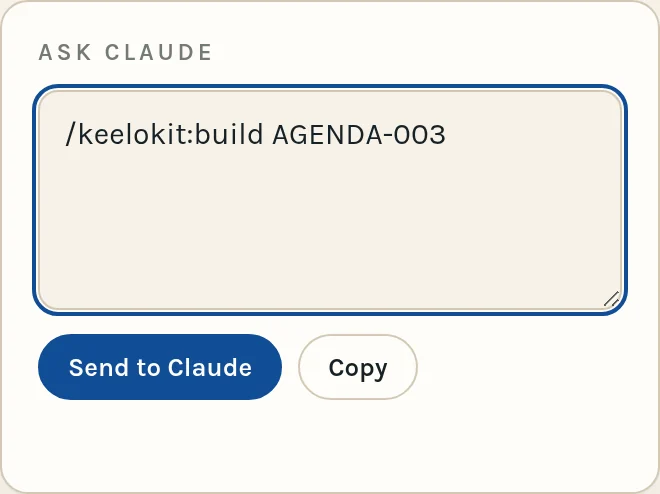
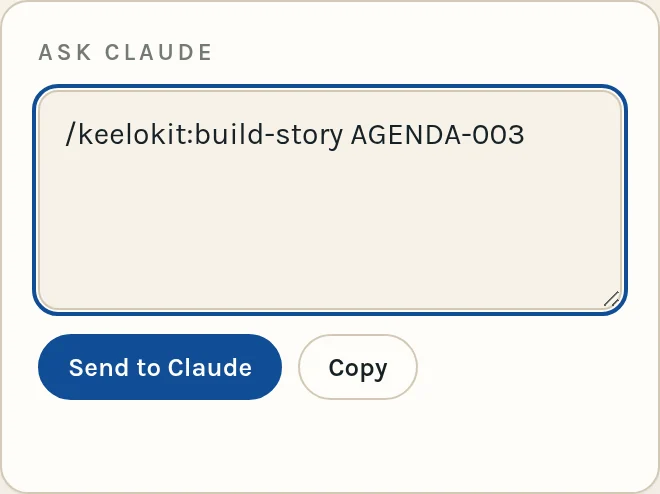
Keelokit's commands grouped by area (project-, plan-, build-, check-, ship-)

Changed region(s): [[0.3939, 0.2429, 0.7879, 0.3036]]

diff --git a/src/i18n.ts b/src/i18n.ts
@@ -46,7 +46,7 @@ const en = {
     depth: '−2 m',
     title: 'From an idea to a monorepo that runs',
     lead:
-      '/keelokit:kickstart walks you through five gates and shows each one on a dashboard. Stage by stage, it stops wherever your decision matters; in automatic mode, only where a person is required. Everything gets written down as it goes.',
+      '/keelokit:project-new walks you through five gates and shows each one on a dashboard. Stage by stage, it stops wherever your decision matters; in automatic mode, only where a person is required. Everything gets written down as it goes.',
     steps: [
       ['Intake', 'An interview that reads what you already have first, then asks only what’s missing. What nobody knows yet stays written as an open question, with an owner.'],
       ['Product', 'A short PRD: the problem, who it’s for, what’s in and, explicitly, what’s out.'],
@@ -75,11 +75,11 @@ const en = {
     title: 'Where to start',
     head: ['What you have', 'Start with', 'What you get'],
     rows: [
-      ['An idea, nothing else', '/keelokit:kickstart', 'A monorepo that runs, with CI, context and a first backlog'],
-      ['A repo you already have', '/keelokit:adopt', 'The rules mapped to its checks, and the rest as dated debt'],
-      ['A story to build', '/keelokit:build', 'Tests written first, code that passes them, a verified result'],
-      ['Bugs that keep slipping through', '/keelokit:bugbash', 'Root-cause fixes, and a check that covers the whole class of every bug that escaped'],
-      ['A project to follow', '/keelokit:dashboard', 'One page with every stage, what waits for you and the next step, with buttons that ask Claude for it', 'new'],
+      ['An idea, nothing else', '/keelokit:project-new', 'A monorepo that runs, with CI, context and a first backlog'],
+      ['A repo you already have', '/keelokit:project-adopt', 'The rules mapped to its checks, and the rest as dated debt'],
+      ['A story to build', '/keelokit:build-story', 'Tests written first, code that passes them, a verified result'],
+      ['Bugs that keep slipping through', '/keelokit:check-bugbash', 'Root-cause fixes, and a check that covers the whole class of every bug that escaped'],
+      ['A project to follow', '/keelokit:project-dashboard', 'One page with every stage, what waits for you and the next step, with buttons that ask Claude for it', 'new'],
     ],
   },
   verifyTitle: 'The skeleton, checked end to end',
@@ -97,15 +97,15 @@ const en = {
     badge: 'New',
     lead: 'Ten skills. You can run them one by one, let /keelokit tell you what comes next, or follow it all on the dashboard.',
     items: [
-      ['/keelokit:kickstart', 'From an idea to a working skeleton: intake, PRD, stack, generated monorepo with CI, first backlog.'],
-      ['/keelokit:adopt', 'Adds only the harness to a repo you already have. What it doesn’t meet yet becomes a dated exception.'],
-      ['/keelokit:intake', 'Reads briefs, notes or a repo, then asks only what’s missing. Never fills a gap with a guess.'],
-      ['/keelokit:backlog', 'Epics and stories with acceptance scenarios and the invariants they keep, in waves so parallel work never collides.'],
-      ['/keelokit:build', 'One story at a time: the verifier writes the tests first, a builder makes them pass, a reviewer reads the diff and a breaker tries to break it.'],
-      ['/keelokit:bugbash', 'A bug hunt across data, API, integrity, UX, i18n, accessibility and security. Every escaped bug adds a check for its whole class.'],
-      ['/keelokit:dashboard', 'One page, rebuilt from the repo: every stage and its status, what to review with the documents inline, stories by development wave and by epic, bug bashes, the decisions taken, and buttons that ask Claude for the next step.', 'new'],
-      ['/keelokit:doctor', 'Is every rule still backed by a check that works? Adds rules, registers exceptions.'],
-      ['/keelokit:upgrade', 'Brings a project to a newer template without touching its product code.'],
+      ['/keelokit:project-new', 'From an idea to a working skeleton: intake, PRD, stack, generated monorepo with CI, first backlog.'],
+      ['/keelokit:project-adopt', 'Adds only the harness to a repo you already have. What it doesn’t meet yet becomes a dated exception.'],
+      ['/keelokit:plan-intake', 'Reads briefs, notes or a repo, then asks only what’s missing. Never fills a gap with a guess.'],
+      ['/keelokit:plan-backlog', 'Epics and stories with acceptance scenarios and the invariants they keep, in waves so parallel work never collides.'],
+      ['/keelokit:build-story', 'One story at a time: the verifier writes the tests first, a builder makes them pass, a reviewer reads the diff and a breaker tries to break it.'],
+      ['/keelokit:check-bugbash', 'A bug hunt across data, API, integrity, UX, i18n, accessibility and security. Every escaped bug adds a check for its whole class.'],
+      ['/keelokit:project-dashboard', 'One page, rebuilt from the repo: every stage and its status, what to review with the documents inline, stories by development wave and by epic, bug bashes, the decisions taken, and buttons that ask Claude for the next step.', 'new'],
+      ['/keelokit:check-health', 'Is every rule still backed by a check that works? Adds rules, registers exceptions.'],
+      ['/keelokit:ship-upgrade', 'Brings a project to a newer template without touching its product code.'],
       ['/keelokit', 'Where the project stands, what comes next, what’s waiting for your decision.'],
     ],
   },
@@ -113,7 +113,7 @@ const en = {
     depth: '−11 m',
     badge: 'New in 0.6',
     title: 'The whole project on one page',
-    lead: '/keelokit:dashboard builds a page from your repo, in your language: where the project is, what waits for you, and the next step. It opens at the start of kickstart, refreshes at every stage, and tells you where a paused run stopped.',
+    lead: '/keelokit:project-dashboard builds a page from your repo, in your language: where the project is, what waits for you, and the next step. It opens when /keelokit:project-new starts, refreshes at every stage, and tells you where a paused run stopped.',
     caption: 'Bookline, a sample project, halfway through its build',
     open: 'Open full size',
     darkCaption: 'Light or dark, one click',
@@ -165,8 +165,8 @@ const en = {
     depth: '−32 m',
     title: 'Good to know',
     items: [
-      ['It’s opinionated', 'It’s built around my preferences and my stack. It won’t fit every project or every team. If your stack is different, /keelokit:adopt still gives you the rules and the checks.'],
-      ['It uses tokens', 'build and bugbash run several agents per story. /keelokit:build --light exists for small changes.'],
+      ['It’s opinionated', 'It’s built around my preferences and my stack. It won’t fit every project or every team. If your stack is different, /keelokit:project-adopt still gives you the rules and the checks.'],
+      ['It uses tokens', 'build-story and check-bugbash run several agents per story. /keelokit:build-story --light exists for small changes.'],
       ['The guard is a speed bump', 'It stops agents from the obvious mistakes, but it isn’t a sandbox. Git hooks and CI are the real backstop.'],
       ['The doctor sees presence, not quality', 'It can tell a check exists and is switched on, not that it’s a good check. For critical code, mutation testing measures that; elsewhere, reviews and bug hunts cover it.'],
     ],
@@ -176,7 +176,7 @@ const en = {
   try: {
     depth: '−40 m',
     title: 'Try it',
-    lead: 'In an empty folder run /keelokit:kickstart. In a repo you already have, /keelokit:adopt.',
+    lead: 'In an empty folder run /keelokit:project-new. In a repo you already have, /keelokit:project-adopt.',
     needs: 'You need Node 22 with pnpm 10, Python 3.11+, uv, Docker and git. macOS or Linux.',
     github: 'Code, docs and license on GitHub',
   },
@@ -211,7 +211,7 @@ const es: typeof en = {
     depth: '−2 m',
     title: 'De una idea a un monorepo que funciona',
     lead:
-      '/keelokit:kickstart te lleva por cinco etapas y muestra cada una en un tablero. Por etapas, se frena donde importa tu decisión; en modo automático, solo donde hace falta una persona. Va dejando todo por escrito.',
+      '/keelokit:project-new te lleva por cinco etapas y muestra cada una en un tablero. Por etapas, se frena donde importa tu decisión; en modo automático, solo donde hace falta una persona. Va dejando todo por escrito.',
     steps: [
       ['Intake', 'Una entrevista que primero lee lo que ya tenés y después pregunta solo lo que falta. Lo que nadie sabe todavía queda escrito como pregunta abierta, con un responsable.'],
       ['Producto', 'Un PRD corto: el problema, para quién es, qué entra y, explícitamente, qué queda afuera.'],
@@ -240,11 +240,11 @@ const es: typeof en = {
     title: 'Por dónde empezar',
     head: ['Qué tenés', 'Empezá con', 'Qué obtenés'],
     rows: [
-      ['Una idea, nada más', '/keelokit:kickstart', 'Un monorepo que funciona, con CI, contexto y un primer backlog'],
-      ['Un repo que ya existe', '/keelokit:adopt', 'Las reglas mapeadas a sus checks, y el resto como deuda con fecha'],
-      ['Una historia para construir', '/keelokit:build', 'Tests escritos primero, código que los pasa y un resultado verificado'],
-      ['Bugs que se siguen escapando', '/keelokit:bugbash', 'Arreglos en la causa raíz, y un check que cubre toda la clase de cada bug que se escapó'],
-      ['Un proyecto para seguir', '/keelokit:dashboard', 'Una página con cada etapa, lo que te espera y el próximo paso, con botones para pedírselo a Claude', 'new'],
+      ['Una idea, nada más', '/keelokit:project-new', 'Un monorepo que funciona, con CI, contexto y un primer backlog'],
+      ['Un repo que ya existe', '/keelokit:project-adopt', 'Las reglas mapeadas a sus checks, y el resto como deuda con fecha'],
+      ['Una historia para construir', '/keelokit:build-story', 'Tests escritos primero, código que los pasa y un resultado verificado'],
+      ['Bugs que se siguen escapando', '/keelokit:check-bugbash', 'Arreglos en la causa raíz, y un check que cubre toda la clase de cada bug que se escapó'],
+      ['Un proyecto para seguir', '/keelokit:project-dashboard', 'Una página con cada etapa, lo que te espera y el próximo paso, con botones para pedírselo a Claude', 'new'],
     ],
   },
   verifyTitle: 'El esqueleto, verificado de punta a punta',
@@ -262,15 +262,15 @@ const es: typeof en = {
     badge: 'Nuevo',
     lead: 'Diez skills. Podés correrlos uno por uno, dejar que /keelokit te diga qué sigue, o seguir todo en el tablero.',
     items: [
-      ['/keelokit:kickstart', 'De una idea a un esqueleto que funciona: intake, PRD, stack, monorepo generado con CI y primer backlog.'],
-      ['/keelokit:adopt', 'Suma solo el harness a un repo que ya tenés. Lo que todavía no cumple queda como excepción con fecha.'],
-      ['/keelokit:intake', 'Lee briefs, notas o un repo, y pregunta solo lo que falta. Nunca completa un hueco adivinando.'],
-      ['/keelokit:backlog', 'Épicas e historias con escenarios de aceptación y los invariantes que respetan, en olas de desarrollo para que el trabajo en paralelo no choque.'],
-      ['/keelokit:build', 'Una historia por vez: el verificador escribe primero los tests, un builder los hace pasar, un revisor lee el diff y un breaker intenta romperla.'],
-      ['/keelokit:bugbash', 'Una cacería de bugs en datos, API, integridad, UX, i18n, accesibilidad y seguridad. Cada bug que se escapó suma un check para toda su clase.'],
-      ['/keelokit:dashboard', 'Una página que se arma desde el repo: cada etapa y su estado, qué revisar con los documentos a la vista, las historias por ola de desarrollo y por épica, los bug bashes, las decisiones tomadas y botones para pedirle a Claude el próximo paso.', 'new'],
-      ['/keelokit:doctor', '¿Cada regla sigue respaldada por un check que funciona? Suma reglas y registra excepciones.'],
-      ['/keelokit:upgrade', 'Lleva un proyecto a un template más nuevo sin tocar el código del producto.'],
+      ['/keelokit:project-new', 'De una idea a un esqueleto que funciona: intake, PRD, stack, monorepo generado con CI y primer backlog.'],
+      ['/keelokit:project-adopt', 'Suma solo el harness a un repo que ya tenés. Lo que todavía no cumple queda como excepción con fecha.'],
+      ['/keelokit:plan-intake', 'Lee briefs, notas o un repo, y pregunta solo lo que falta. Nunca completa un hueco adivinando.'],
+      ['/keelokit:plan-backlog', 'Épicas e historias con escenarios de aceptación y los invariantes que respetan, en olas de desarrollo para que el trabajo en paralelo no choque.'],
+      ['/keelokit:build-story', 'Una historia por vez: el verificador escribe primero los tests, un builder los hace pasar, un revisor lee el diff y un breaker intenta romperla.'],
+      ['/keelokit:check-bugbash', 'Una cacería de bugs en datos, API, integridad, UX, i18n, accesibilidad y seguridad. Cada bug que se escapó suma un check para toda su clase.'],
+      ['/keelokit:project-dashboard', 'Una página que se arma desde el repo: cada etapa y su estado, qué revisar con los documentos a la vista, las historias por ola de desarrollo y por épica, los bug bashes, las decisiones tomadas y botones para pedirle a Claude el próximo paso.', 'new'],
+      ['/keelokit:check-health', '¿Cada regla sigue respaldada por un check que funciona? Suma reglas y registra excepciones.'],
+      ['/keelokit:ship-upgrade', 'Lleva un proyecto a un template más nuevo sin tocar el código del producto.'],
       ['/keelokit', 'Dónde está el proyecto, qué sigue y qué espera tu decisión.'],
     ],
   },
@@ -278,7 +278,7 @@ const es: typeof en = {
     depth: '−11 m',
     badge: 'Nuevo en 0.6',
     title: 'Todo el proyecto en una página',
-    lead: '/keelokit:dashboard arma una página desde tu repo, en tu idioma: dónde está el proyecto, qué te espera y cuál es el próximo paso. Se abre al empezar kickstart, se actualiza en cada etapa y te dice dónde quedó un proceso a medias.',
+    lead: '/keelokit:project-dashboard arma una página desde tu repo, en tu idioma: dónde está el proyecto, qué te espera y cuál es el próximo paso. Se abre cuando arranca /keelokit:project-new, se actualiza en cada etapa y te dice dónde quedó un proceso a medias.',
     caption: 'Turnero, un proyecto de ejemplo, a mitad de la construcción',
     open: 'Ver en tamaño completo',
     darkCaption: 'Claro u oscuro, con un clic',
@@ -330,8 +330,8 @@ const es: typeof en = {
     depth: '−32 m',
     title: 'Bueno saber',
     items: [
-      ['Es opinado', 'Está hecho a mi gusto y con mi stack. No va a encajar en todos los proyectos ni en todos los equipos. Si tu stack es otro, /keelokit:adopt igual te da las reglas y los checks.'],
-      ['Usa tokens', 'build y bugbash corren varios agentes por historia. Para cambios chicos existe /keelokit:build --light.'],
+      ['Es opinado', 'Está hecho a mi gusto y con mi stack. No va a encajar en todos los proyectos ni en todos los equipos. Si tu stack es otro, /keelokit:project-adopt igual te da las reglas y los checks.'],
+      ['Usa tokens', 'build-story y check-bugbash corren varios agentes por historia. Para cambios chicos existe /keelokit:build-story --light.'],
       ['El guard es un reductor de velocidad', 'Frena a los agentes en los errores obvios, pero no es un sandbox. Los hooks de git y el CI son el respaldo real.'],
       ['El doctor ve presencia, no calidad', 'Puede ver que un check existe y está prendido, no que sea un buen check. En el código crítico eso lo mide el mutation testing; en el resto, las revisiones y las cacerías de bugs.'],
     ],
@@ -341,7 +341,7 @@ const es: typeof en = {
   try: {
     depth: '−40 m',
     title: 'Probarlo',
-    lead: 'En una carpeta vacía corré /keelokit:kickstart. En un repo que ya tenés, /keelokit:adopt.',
+    lead: 'En una carpeta vacía corré /keelokit:project-new. En un repo que ya tenés, /keelokit:project-adopt.',
     needs: 'Necesitás Node 22 con pnpm 10, Python 3.11+, uv, Docker y git. macOS o Linux.',
     github: 'Código, documentación y licencia en GitHub',
   },

diff --git a/src/lib/content.ts b/src/lib/content.ts
@@ -1,5 +1,5 @@
 // Highlights /keelokit:<skill> wherever it appears in a sentence.
-export const cmd = (s: string) => s.replace(/\/keelokit(:([a-z]+))?/g, (_m: string, _c: string, name?: string) =>
+export const cmd = (s: string) => s.replace(/\/keelokit(:([a-z][a-z-]*[a-z]))?/g, (_m: string, _c: string, name?: string) =>
   `<span class="cmd"><span class="cmd-ns">/keelokit</span>${name ? `:<span class="cmd-name">${name}</span>` : ''}</span>`);
 // Real output formats of verify, doctor and the guard (Keelokit 0.5.0's template/scripts/verify.sh,
 // .keelokit/bin/doctor.py and guard.py); verify runs with an API and a web app, the doctor lines
